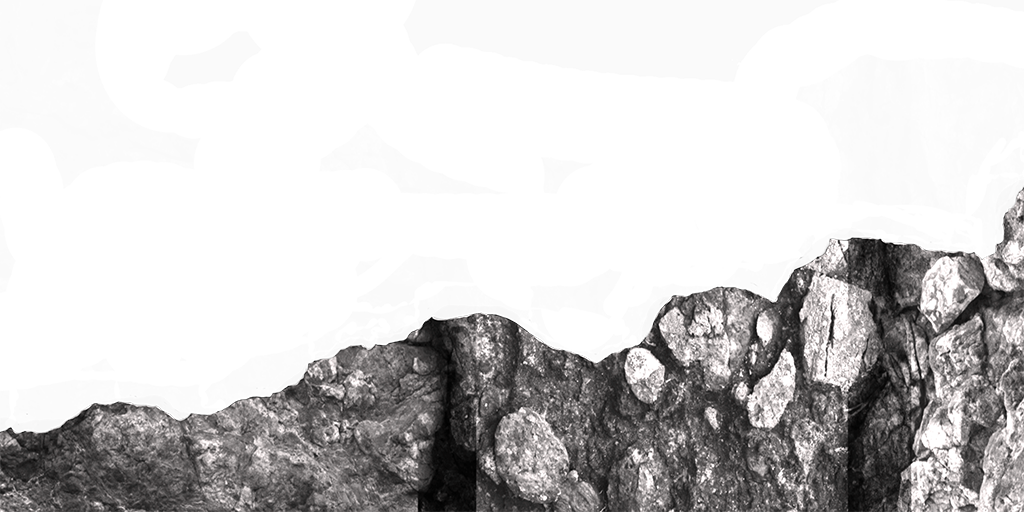
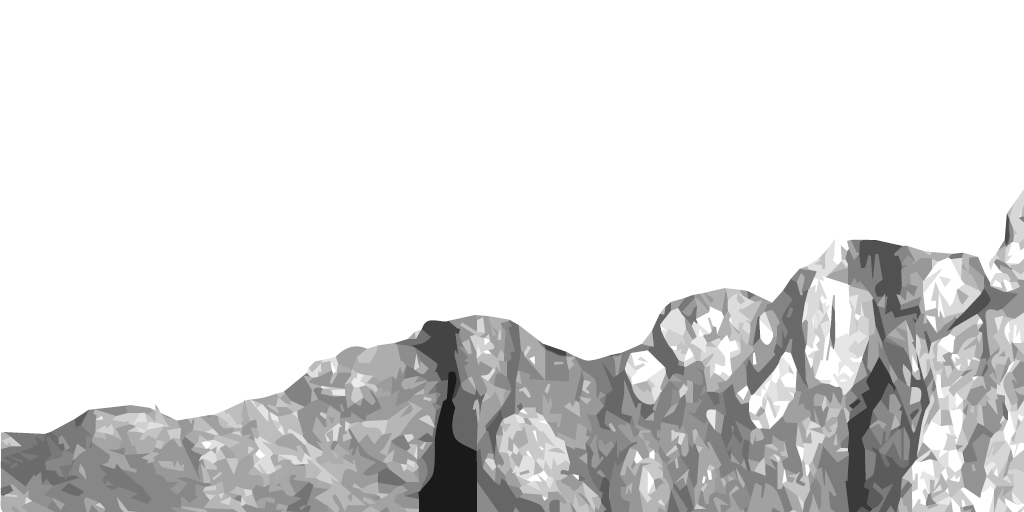
mountain bg 1a/b traced and expanded in illustrator then given white overlays in photoshop

Changed region(s): [[0.0, 0.375, 1.0, 1.0]]

diff --git a/public/src/js/data/keke2_config3.js b/public/src/js/data/keke2_config3.js
@@ -325,7 +325,7 @@ var config = {
 		}
 	},
 	// STATES
-	initialState: 'level5',
+	initialState: 'menu',
 	states: [
 	// menu
 	{
